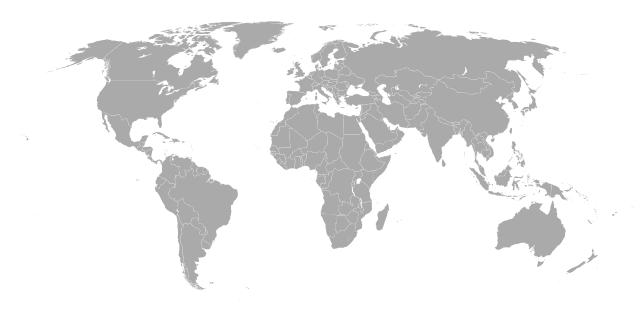
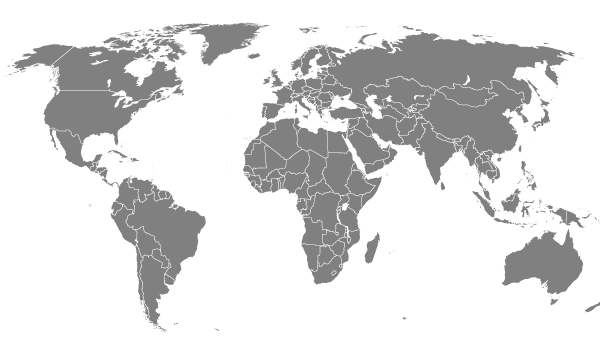
map area tag

diff --git a/home.html b/home.html
@@ -10,6 +10,8 @@
 	<link href="//maxcdn.bootstrapcdn.com/bootstrap/4.0.0/css/bootstrap.min.css" rel="stylesheet" id="bootstrap-css">
   <!--google font cdn -->
   <link href="https://fonts.googleapis.com/css?family=Arimo" rel="stylesheet">
+  <!--fontawesome cdn-->
+  <link rel="stylesheet" href="https://use.fontawesome.com/releases/v5.3.1/css/all.css" integrity="sha384-mzrmE5qonljUremFsqc01SB46JvROS7bZs3IO2EmfFsd15uHvIt+Y8vEf7N7fWAU" crossorigin="anonymous">
 	<!--css-->
 	<link rel="stylesheet" href="assets/css/home.css">
 	<link rel="stylesheet" href="assets/css/navbar.css">
@@ -91,7 +93,15 @@
     <section class="page2">
       <div class="container-fluid">
         <div class="map-container">
-          <img id="map" src="assets/images/simple_world_map.png">
+          <img id="map" src="assets/images/simple_world_map.png" usemap="#world">
+          <map name="world">
+            <area shape="circle" coords="82, 215, 10" href="#">
+            <area shape="circle" coords="75, 197, 10" href="#">
+          </map>
+          <ul id="cities">
+            <li id="los-angeles" class="fas fa-map-marker-alt"></li>
+            <li id="san-francisco" class="fas fa-map-marker-alt"></li>
+          </ul>
         </div>
       </div>
     </section>

diff --git a/assets/css/home.css b/assets/css/home.css
@@ -72,9 +72,29 @@ body{
     }
 }
 
+.map-container {
+	width: 75%;
+	height: auto;
+	float: right;
+}
+
 #map {
-	width: 100%;
-	height: 600px;
+	width: 1000px;
+	height: 610px;
+}
+
+#cities {
+	list-style: none;
+	position: relative;
+}
+
+#cities li {
+	position: absolute;
+}
+
+#los-angeles {
+	top: -400px;
+	
 }
 
 /*-----------------Scrollbar-----------------*/
